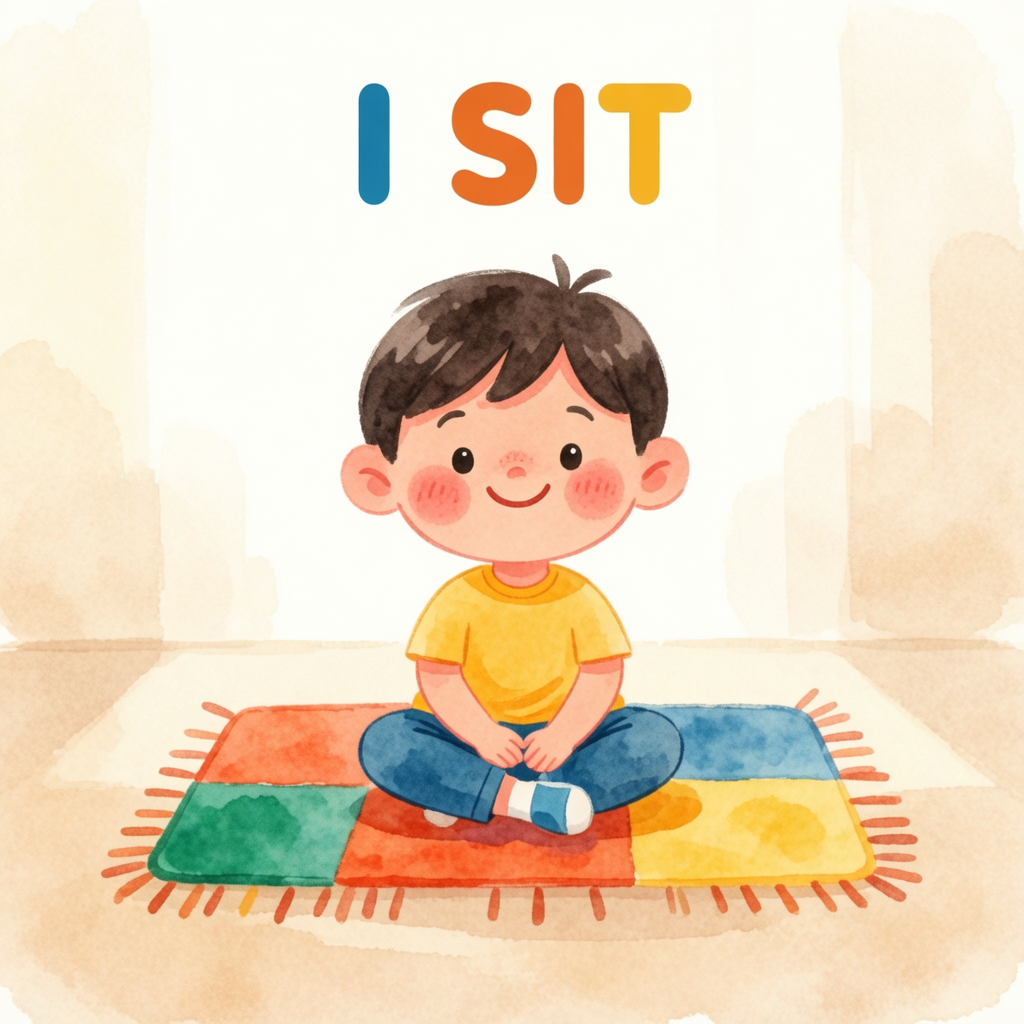
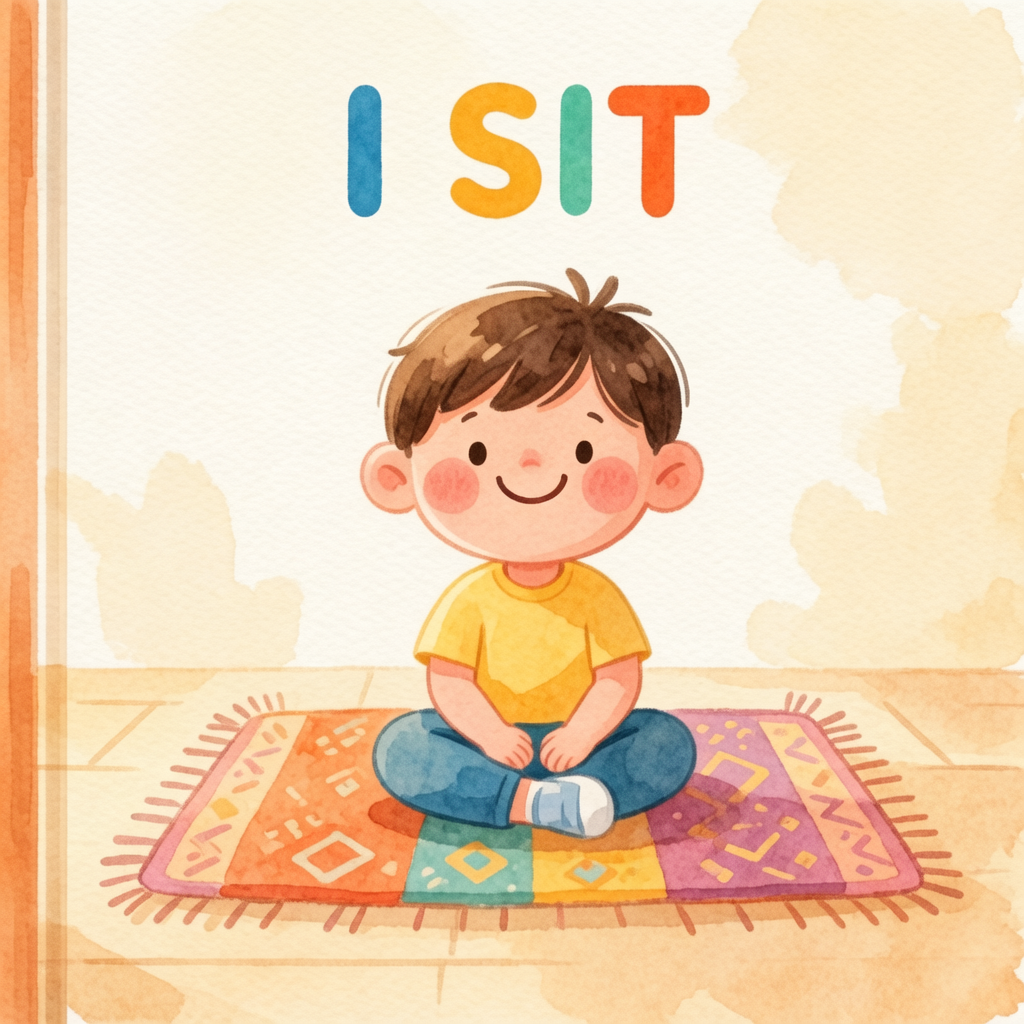
Add 43 AI-generated book covers with style-matched reference images
- Generate 35 reference images (9-panel style sheets) for all UFLI books
- Create covers for all 43 books using reference-guided image generation
- Add 7 legacy book references (fern_gust, jungle, pig_mud, pip_well, puppy, sol_stone, pig_yellow)
- Style varies by reading band: A (simple/pastel), B (playful), C (rich), D (sophisticated)
- Each book now has unique style matching its content theme

diff --git a/scripts/generate_legacy_refs.py b/scripts/generate_legacy_refs.py
@@ -1,0 +1,207 @@
+#!/usr/bin/env python3
+"""Generate reference images for legacy books with minimal metadata."""
+
+import sys
+import json
+import urllib.request
+from pathlib import Path
+
+SKILL_DIR = Path("/Users/dereklomas/.claude/plugins/cache/mulerouter-skills/mulerouter-skills/1.0.0/skills/mulerouter-skills")
+sys.path.insert(0, str(SKILL_DIR))
+
+from dotenv import load_dotenv
+load_dotenv(SKILL_DIR / ".env")
+
+from core import APIClient, load_config, create_and_poll_task
+
+BOOKS_DIR = Path("/Users/dereklomas/lilbookies/public/books")
+REFS_DIR = BOOKS_DIR / "references"
+
+# Custom prompts for legacy books based on their titles
+LEGACY_BOOK_STYLES = {
+    "fern_gust_orange": {
+        "title": "Fern and the Gust",
+        "style": "Playful watercolor illustration, autumn colors, wind and leaves",
+        "panels": [
+            "A girl named Fern standing in a field with wind blowing her hair",
+            "Autumn leaves swirling in a gust of wind",
+            "Fern reaching for her hat blown by the wind",
+            "Wind bending tall grass and flowers",
+            "Fern laughing as leaves dance around her",
+            "A colorful kite flying in a gusty sky",
+            "Fern chasing leaves across a meadow",
+            "Wind chimes tinkling in the breeze",
+            "Fern hugging herself against a playful wind"
+        ]
+    },
+    "jungle_v2": {
+        "title": "Zee and the Jungle",
+        "style": "Vibrant tropical illustration, lush greens, exotic animals",
+        "panels": [
+            "A curious child named Zee entering a dense jungle",
+            "Colorful parrots perched in tropical trees",
+            "A friendly monkey swinging on vines",
+            "Zee crossing a wooden jungle bridge",
+            "A jaguar resting on a tree branch",
+            "Tropical flowers in bright colors",
+            "Zee discovering a hidden waterfall",
+            "Butterflies fluttering through jungle leaves",
+            "Zee making friends with jungle animals"
+        ]
+    },
+    "pig_mud": {
+        "title": "Pig in the Mud",
+        "style": "Playful farm illustration, muddy pig, warm earthy colors",
+        "panels": [
+            "A happy pink pig splashing in mud",
+            "The pig rolling joyfully in a mud puddle",
+            "Muddy pig footprints across a barnyard",
+            "The pig covered in mud, grinning widely",
+            "A farmer looking surprised at the muddy pig",
+            "The pig shaking mud everywhere",
+            "Clean pig after a bath, looking annoyed",
+            "The pig sneaking back toward the mud",
+            "Sunset over a peaceful farm with mud puddles"
+        ]
+    },
+    "pip_well_orange": {
+        "title": "Pip and the Well",
+        "style": "Rustic village illustration, stone well, warm orange sunset tones",
+        "panels": [
+            "A small child named Pip peering into an old stone well",
+            "A wooden bucket hanging from a well rope",
+            "Pip dropping a coin into the well and making a wish",
+            "The well in a cottage garden with flowers",
+            "Pip listening for the splash at the bottom",
+            "A frog sitting on the edge of the well",
+            "Pip pulling up a bucket of water",
+            "Sunset light reflecting off the well water",
+            "Pip waving goodbye to the magical well"
+        ]
+    },
+    "puppy_silver": {
+        "title": "Puppy's Birthday",
+        "style": "Festive celebration illustration, party decorations, silver and pastel colors",
+        "panels": [
+            "A fluffy puppy wearing a birthday hat",
+            "Colorful birthday balloons and streamers",
+            "A dog-bone shaped birthday cake with candles",
+            "The puppy opening wrapped presents",
+            "Party guests: other cute puppies and dogs",
+            "The puppy playing with a new toy",
+            "Birthday banner saying Happy Birthday",
+            "The puppy blowing out candles on the cake",
+            "Tired happy puppy after the party"
+        ]
+    },
+    "sol_stone_orange": {
+        "title": "Sol and the Stone",
+        "style": "Desert adventure illustration, warm oranges and golds, mysterious stone",
+        "panels": [
+            "A child named Sol finding a glowing stone in the desert",
+            "The magical stone shining with warm light",
+            "Sol holding the stone up to examine it",
+            "Desert landscape with cacti and sand dunes",
+            "The stone casting beautiful shadows",
+            "Sol showing the stone to a desert lizard friend",
+            "Sunset colors reflecting off the stone",
+            "Sol placing the stone in a special place",
+            "The stone lighting up the night desert"
+        ]
+    },
+    "pig_yellow": {
+        "title": "Pig in Mud",
+        "style": "Simple toddler-friendly illustration, happy pig, bright yellow sunshine",
+        "panels": [
+            "A cute pink pig looking at a mud puddle",
+            "The pig jumping into the mud with a splash",
+            "Mud splattering everywhere",
+            "The pig's happy face covered in mud",
+            "A bright yellow sun shining overhead",
+            "The pig rolling on its back in the mud",
+            "Farm animals watching the pig play",
+            "The pig getting clean in a tub",
+            "Happy clean pig under sunny sky"
+        ]
+    }
+}
+
+
+def generate_reference(slug: str, config) -> bool:
+    """Generate a reference image for a legacy book."""
+
+    if slug not in LEGACY_BOOK_STYLES:
+        print(f"  No style defined for {slug}")
+        return False
+
+    book_info = LEGACY_BOOK_STYLES[slug]
+    output_path = REFS_DIR / f"{slug}_reference.png"
+
+    panel_text = "\n".join([f"Panel {i+1}: {p}" for i, p in enumerate(book_info["panels"])])
+
+    prompt = f"""A 9-panel reference sheet for children's book "{book_info['title']}".
+Style: {book_info['style']}
+
+The 9 panels arranged in a 3x3 grid showing:
+{panel_text}
+
+Consistent art style across all panels, suitable for children's picture book illustration. Warm, friendly, watercolor style."""
+
+    print(f"  Title: {book_info['title']}")
+    print(f"  Style: {book_info['style']}")
+
+    body = {
+        "prompt": prompt,
+        "size": "1024*1024",
+        "n": 1
+    }
+
+    with APIClient(config) as client:
+        result = create_and_poll_task(
+            client=client,
+            endpoint_path="/vendors/alibaba/v1/wan2.6-t2i/generation",
+            request_body=body,
+            result_key="images",
+            interval=5.0,
+            max_wait=300.0,
+            verbose=True
+        )
+
+        if result.results:
+            url = result.results[0]
+            print(f"  Generated: {url}")
+            try:
+                urllib.request.urlretrieve(url, output_path)
+                print(f"  Saved to: {output_path}")
+                return True
+            except Exception as e:
+                print(f"  Download error: {e}")
+                return False
+        else:
+            print(f"  Failed: {result.error}")
+            return False
+
+
+def main():
+    legacy_books = list(LEGACY_BOOK_STYLES.keys())
+
+    print(f"Generating reference images for {len(legacy_books)} legacy books:")
+    for s in legacy_books:
+        print(f"  - {s}")
+
+    config = load_config()
+    print(f"\nUsing API: {config.site}")
+
+    REFS_DIR.mkdir(parents=True, exist_ok=True)
+
+    success = 0
+    for slug in legacy_books:
+        print(f"\n[{slug}]")
+        if generate_reference(slug, config):
+            success += 1
+
+    print(f"\n\nDone! Generated {success}/{len(legacy_books)} reference images.")
+
+
+if __name__ == "__main__":
+    main()
